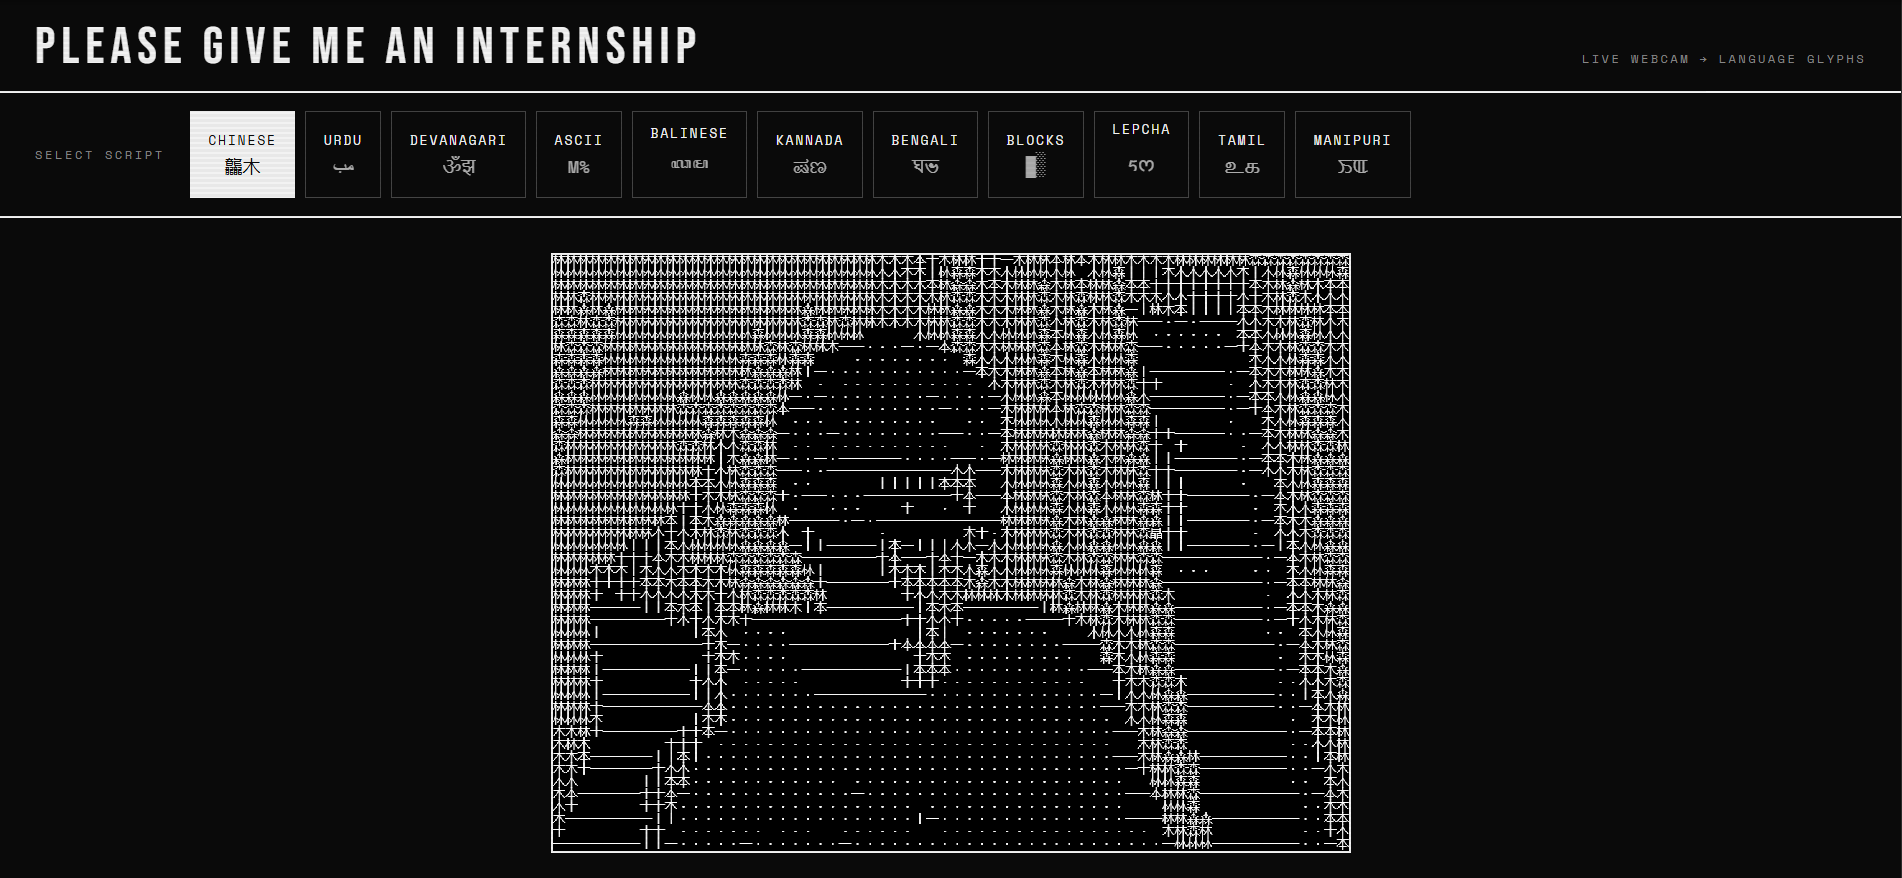
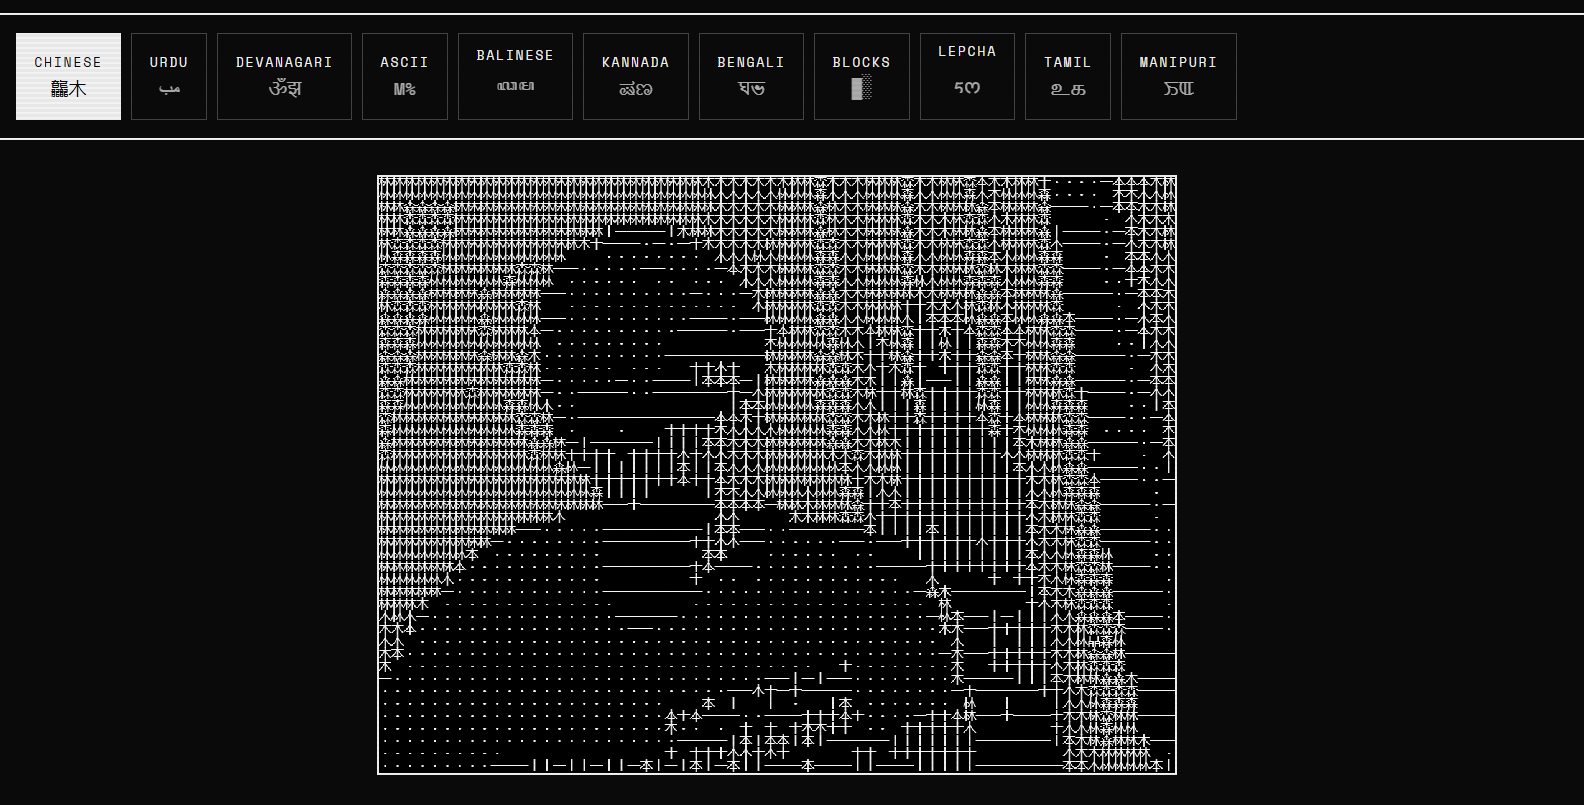
feat: sort projects by category and filter more out

diff --git a/src/app/page.tsx b/src/app/page.tsx
@@ -387,7 +387,31 @@ export default function Home() {
               <div className="flex flex-col gap-24 w-full mt-4 pb-24">
                 
                 {projects
-                  .filter(project => project.slug !== 'zomato' && project.slug !== 'spotify')
+                  .filter(project => !['zomato', 'spotify', 'lamp-poster', '25151017-sumer-vaidya'].includes(project.slug))
+                  .sort((a, b) => {
+                    const websiteSlugs = ['janus-system', 'indian-glyph-webcam', 'tgif', 'human-nature'];
+                    const aIsWebsite = websiteSlugs.includes(a.slug);
+                    const bIsWebsite = websiteSlugs.includes(b.slug);
+                    
+                    const aIsBehance = a.externalLink?.includes('behance.net') || false;
+                    const bIsBehance = b.externalLink?.includes('behance.net') || false;
+
+                    // 1. Websites at the top (keep specific order if possible, but boolean sort works for grouping)
+                    if (aIsWebsite && !bIsWebsite) return -1;
+                    if (!aIsWebsite && bIsWebsite) return 1;
+                    
+                    // If both are websites, sort by their order in the websiteSlugs array
+                    if (aIsWebsite && bIsWebsite) {
+                      return websiteSlugs.indexOf(a.slug) - websiteSlugs.indexOf(b.slug);
+                    }
+
+                    // 2. Behance projects next
+                    if (aIsBehance && !bIsBehance) return -1;
+                    if (!aIsBehance && bIsBehance) return 1;
+
+                    // 3. The rest at the bottom (keep their original relative order)
+                    return 0;
+                  })
                   .map(project => (
                     <div key={project.slug} className="flex flex-col group">
                       <h3 className="text-3xl md:text-5xl font-bold text-foreground tracking-tight mb-4 uppercase">{project.title}</h3>

diff --git a/src/data/projects.ts b/src/data/projects.ts
@@ -29,7 +29,7 @@ export const projects: Project[] = [
         title: 'Hyperbolic Paraboloid Coffee Table',
         category: 'Mathematics/ Furniture Design',
         description: 'A study and exploration of the hyperbolic paraboloid.',
-        image: '/images/hyperbolic.jpeg',
+        image: '/images/hyperbolic.png',
         externalLink: '/pdfs/maths-hyperbolic-paraboloid.pdf',
     },
     {
@@ -85,7 +85,7 @@ export const projects: Project[] = [
         title: 'WOC PDP',
         category: 'Product Design',
         description: 'A product design project exploring the PDP concept.',
-        image: '/images/woc.jpg',
+        image: '/images/woc.png',
         externalLink: '/pdfs/WOC-project-pdp.pdf',
     },
     {
